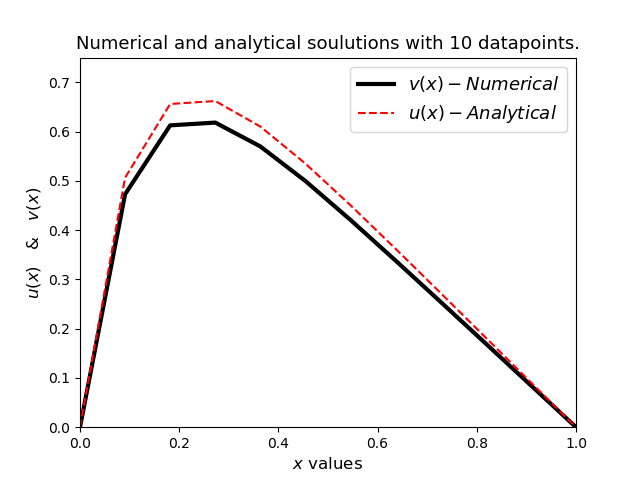
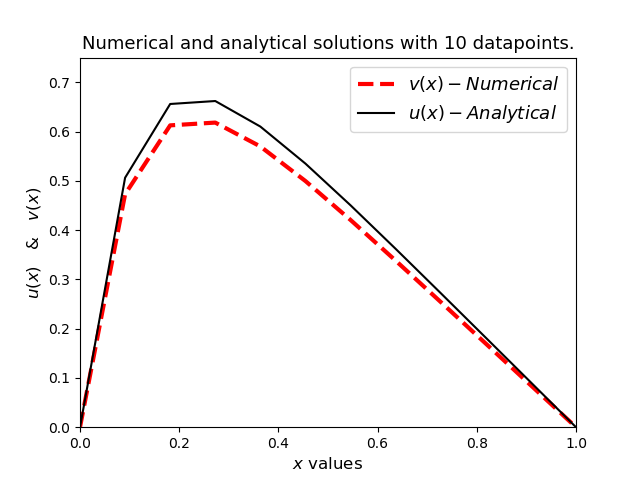
Minor changes for plotting

diff --git a/Project_1/Read_File.py b/Project_1/Read_File.py
@@ -33,9 +33,9 @@ def read_file(filename):
 		infile.close()
 		print ("Yey")
 		plt.figure()
-		plt.plot(x, Approx_General, "-k", label="$v(x) - Numerical$", linewidth=3)
-		plt.plot(x, Exact, "--r", label="$u(x) - Analytical$")
-		plt.title("Numerical and analytical soulutions with %d datapoints." % n,fontsize=13)
+		plt.plot(x, Approx_General, "--r", label="$v(x) - Numerical$", linewidth=3)
+		plt.plot(x, Exact, "-k", label="$u(x) - Analytical$")
+		plt.title("Numerical and analytical solutions with %d datapoints." % n,fontsize=13)
 		plt.xlabel("$x$ values", fontsize=12)
 		plt.xlim(0,1)
 		plt.ylim(0,0.75)
